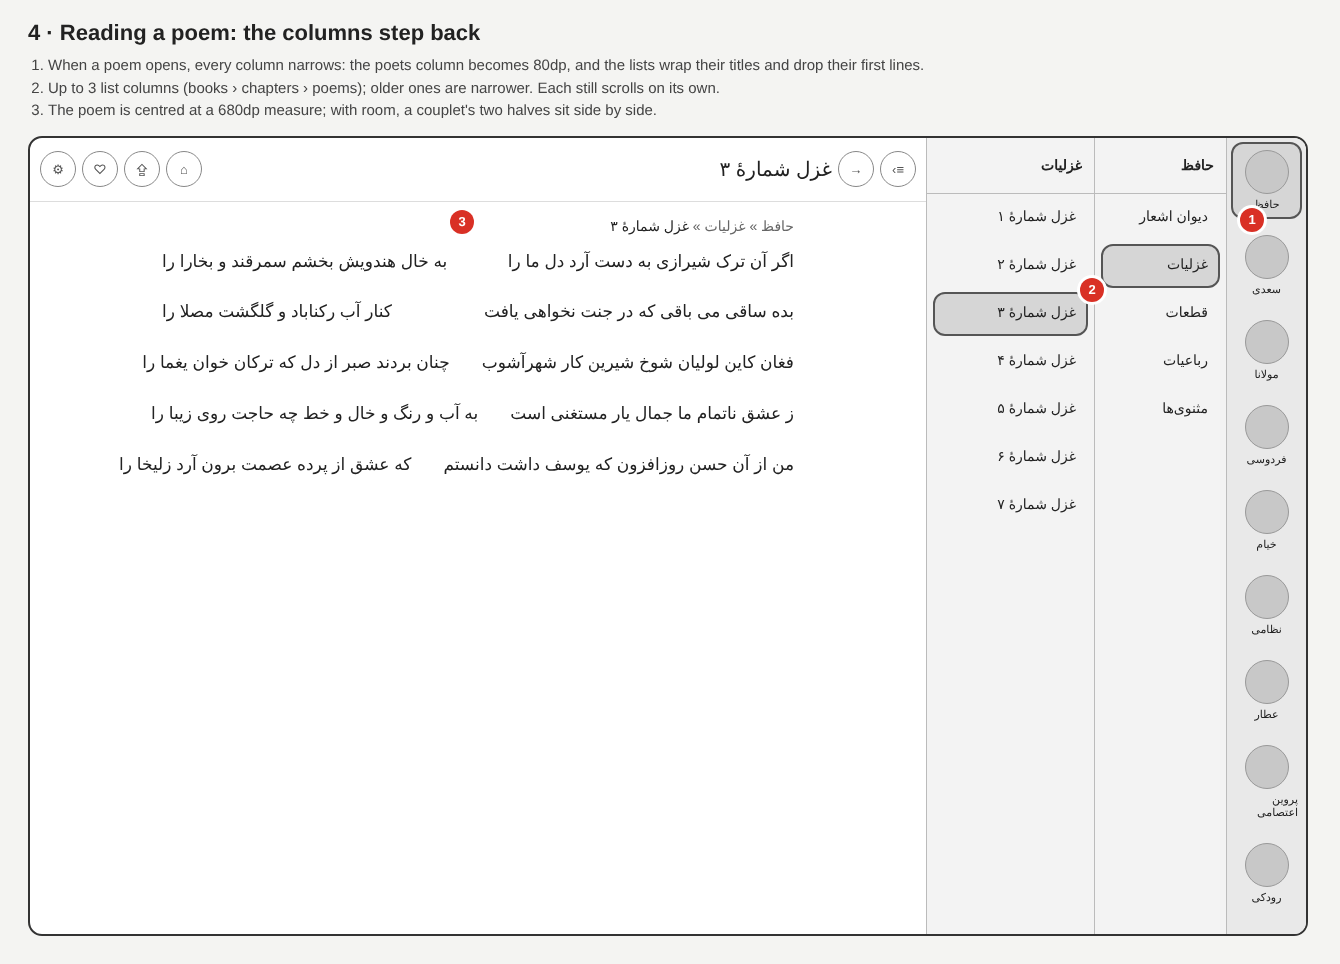
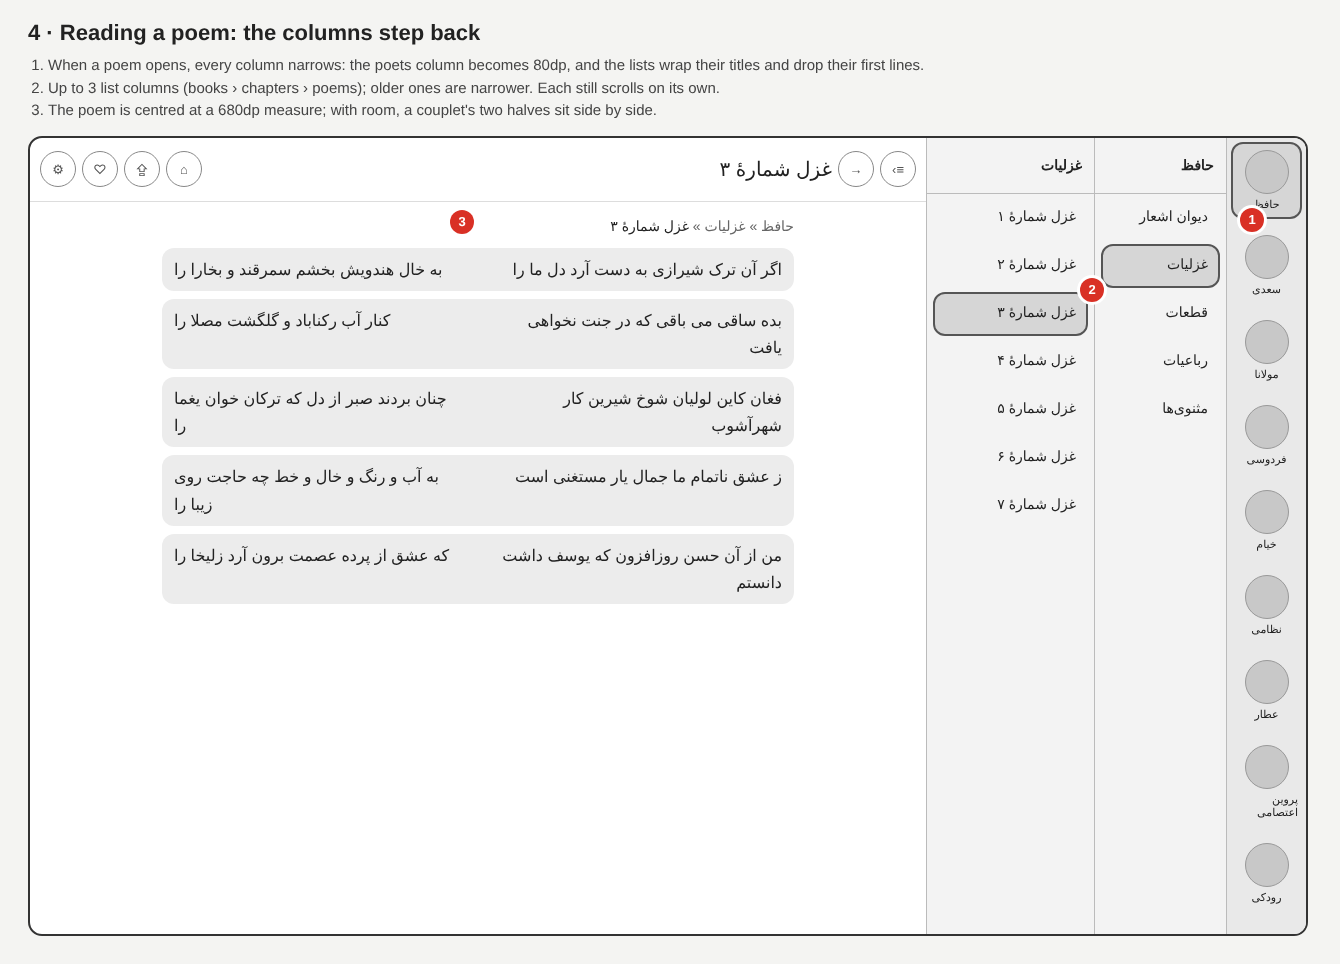
Set each couplet in a dim rounded card, on every screen size
Each line of verse now sits in its own soft card (surface-container-high,
12dp corners), so the eye finds where one couplet ends and the next
begins, and the couplet's chevron, actions and summary visibly belong to
it. On OLED black that step is all but black, so the card takes the next
one up there. Prose stays bare: a paragraph in a box reads as a quotation.

Text keeps at least 6:1 on the card in every theme. The phone layout is
otherwise unchanged.

Updates the Couplet notes, the stylesheet and wireframes 4-8, and adds
wireframe 9 for the phone.

Claude-Session: https://claude.ai/code/session_01RhmDdrN5hgWrgRcFLAMsV6

diff --git a/app/src/main/java/com/ganjoor/android/ui/PoemScreen.kt b/app/src/main/java/com/ganjoor/android/ui/PoemScreen.kt
@@ -7,6 +7,10 @@ import androidx.compose.animation.fadeIn
 import androidx.compose.animation.fadeOut
 import androidx.compose.animation.shrinkHorizontally
 import androidx.compose.foundation.clickable
+import androidx.compose.ui.draw.clip
+import androidx.compose.ui.graphics.Color
+import androidx.compose.foundation.shape.RoundedCornerShape
+import androidx.compose.foundation.background
 import androidx.compose.foundation.gestures.detectTapGestures
 import androidx.compose.foundation.layout.Arrangement
 import androidx.compose.foundation.layout.Box
@@ -251,6 +255,9 @@ fun PoemScreen(
     }
 }
 
+/** The positions that make a line of verse; anything else (Single, Paragraph, Comment) is prose. */
+private val VERSE_POSITIONS = setOf(Verse.RIGHT, Verse.LEFT, Verse.CENTERED_1, Verse.CENTERED_2)
+
 /** A word someone tapped: what to look up, the couplet it came from, and where it sits in its verse. */
 private data class WordTap(val word: String, val passage: Bookmark, val verse: Int, val range: IntRange)
 
@@ -379,7 +386,26 @@ private fun Couplet(
     val oneLine = sideBySide && couplet.size == 2 &&
         couplet[0].position == Verse.RIGHT && couplet[1].position == Verse.LEFT
 
-    Column(modifier = Modifier.fillMaxWidth().padding(vertical = 6.dp)) {
+    // Each line of verse sits in its own soft card, so the eye finds where one couplet ends and
+    // the next begins, and the couplet's actions visibly belong to it. Prose (Golestan,
+    // Nowruznameh) stays bare: a paragraph in a box reads as a quotation, not as the text.
+    val isVerse = couplet.all { it.position in VERSE_POSITIONS }
+    val colors = MaterialTheme.colorScheme
+    // A step lighter than the page. On OLED black the usual step is all but black itself, so
+    // the card takes the next one up: still dim, but there.
+    val cardColor =
+        if (colors.surface == Color.Black) colors.surfaceContainerHighest else colors.surfaceContainerHigh
+    val card = if (isVerse) {
+        Modifier
+            .padding(vertical = 4.dp)
+            .clip(RoundedCornerShape(12.dp))
+            .background(cardColor)
+            .padding(horizontal = 12.dp, vertical = 8.dp)
+    } else {
+        Modifier.padding(vertical = 6.dp)
+    }
+
+    Column(modifier = Modifier.fillMaxWidth().then(card)) {
         if (oneLine) {
             Row(modifier = Modifier.fillMaxWidth()) {
                 couplet.forEachIndexed { index, verse ->

diff --git a/design/components/bundle.css b/design/components/bundle.css
@@ -28,7 +28,8 @@
 .gj-metre { font-size: 12px; line-height: 16px; letter-spacing: .4px; color: var(--on-surface-variant); }
 
 /* Couplet: two hemistichs stacked; first to the start, second to the end. */
-.gj-couplet { padding: var(--space-6) 0; }
+.gj-couplet { margin: var(--space-4) 0; padding: var(--space-8) var(--space-12); border-radius: var(--radius-md); background: var(--surface-container-high); }
+.gj-couplet.is-prose { margin: 0; padding: var(--space-6) 0; background: none; }
 .gj-verse { font-family: var(--font-naskh); font-size: 22px; line-height: 1.8; color: var(--on-surface); margin: 0; }
 .gj-couplet.is-nastaliq .gj-verse { font-family: var(--font-nastaliq); line-height: 2.4; }
 .gj-verse.is-first { text-align: start; }

diff --git a/design/components/Couplet/README.md b/design/components/Couplet/README.md
@@ -4,7 +4,9 @@ One line of poetry: two hemistichs stacked on a phone, the first pushed to the s
 
 - **Consumer provides:** the couplet's verses (each with its position), the reading style from settings (`poem-naskh` or `poem-nastaliq` at the reader's size and weight), and handlers for a tapped word and for the actions.
 - Alignment by verse position: first hemistich `start`, second `end`, centred verses `center`, prose (single/paragraph/comment) `justify` so Golestan and Nowruznameh fill the column.
-- `space-6` above and below each couplet. Text is `on-surface`.
+- Every line of verse sits in its own **card**: `surface-container-high` (`surface-container-highest` on OLED black, where the usual step is all but black), `radius-md` (12dp) corners, 12dp/8dp inner padding and 4dp above and below. The card holds the couplet's options chevron, its actions and its summary, so they visibly belong to it. Text is `on-surface`, at least 6:1 on the card in every theme.
+- Prose (Single, Paragraph or Comment positions: Golestan, Nowruznameh) has no card; it keeps `space-6` above and below. A paragraph in a box would read as a quotation.
+- The cards are the same on phones, tablets and foldables (wireframes 4–9).
 - Tapping a word opens the dictionary sheet; tapping between words, or the 32px chevron (`touch-compact`, 20px icon, `on-surface-variant`), opens the couplet's actions: **Save this passage**, **Copy**, **Share** as TextButtons. Save keeps the link back to the poem; Copy doesn't.
 - Long-press belongs to text selection — never bind actions to it here.
 - With summaries on, Ganjoor's couplet summary sits underneath in `body-small` / `on-surface-variant`.

diff --git a/design/components/ColumnBrowser/README.md b/design/components/ColumnBrowser/README.md
@@ -1,6 +1,6 @@
 # ColumnBrowser
 
-The layout for tablets and unfolded foldables. A narrow column of poets sits on the right. Beside it is a column for each level of the open book (books › chapters › poems), and the open page fills the rest of the screen on the left. Phones keep today's navigation. Built in `app/src/main/java/com/ganjoor/android/ui/ColumnBrowser.kt`; wireframes are in `design/wireframes/` (1–8).
+The layout for tablets and unfolded foldables. A narrow column of poets sits on the right. Beside it is a column for each level of the open book (books › chapters › poems), and the open page fills the rest of the screen on the left. Phones keep today's navigation. Built in `app/src/main/java/com/ganjoor/android/ui/ColumnBrowser.kt`; wireframes are in `design/wireframes/` (1–9).
 
 ## Window sizes
 
